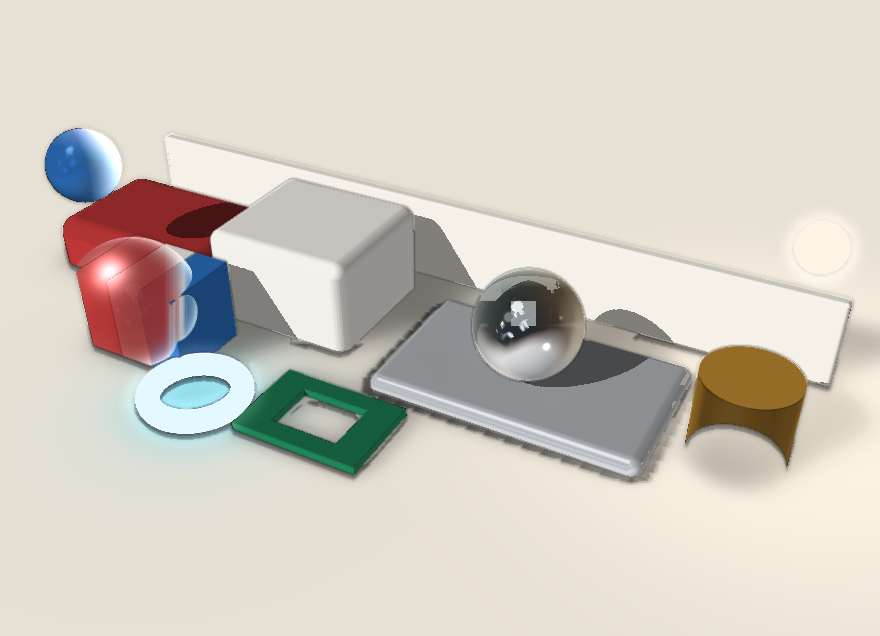
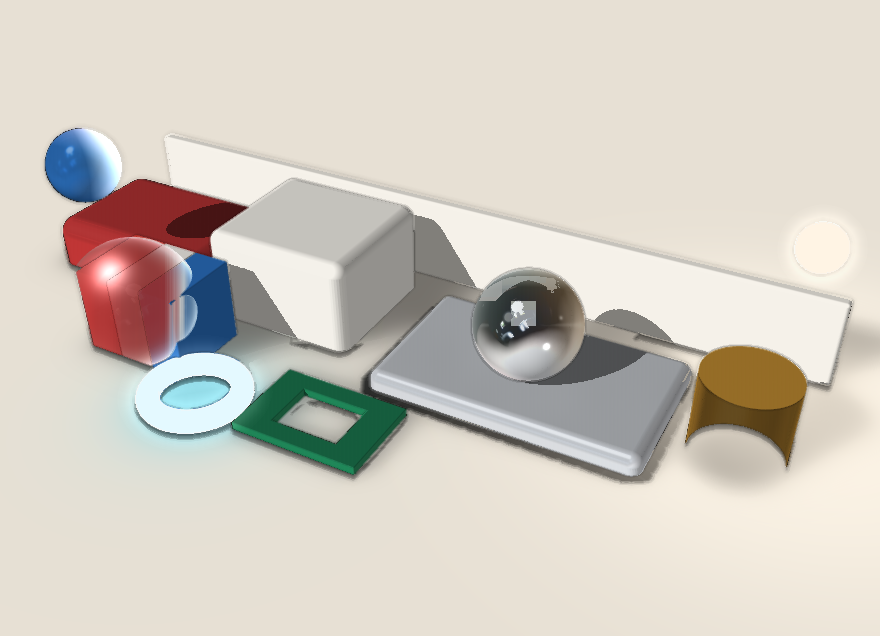
QUALITY-6 §9.2: still-only metal-plate lift z=5; macbook 0.92.
Shared bench keeps matte r0.58 for manga hatchFlip. Still softens contact
further; macbook shell metalness 0.12. Gallery rebake; gates green.

diff --git a/scripts/gallery-3d.ts b/scripts/gallery-3d.ts
@@ -314,7 +314,16 @@ function buildPlates(): { sheet: string; title: string; cols: number; cells: Pla
       width: BENCH_W,
       height: BENCH_H + 96,
       caption: '贴地接触 · 悬空软影 · 缝里的遮挡 · 铬球 · 玻璃和色条 · 洞 · 霓虹 · 灯',
-      body: place(bench(), 0, 52),
+      // Still-only lift + softer plate — shared bench keeps manga hatchFlip
+      // and quality gold facetStripe (QUALITY-6 §9.2).
+      body: place(
+        bench().replace(
+          '<rect id="metal-plate" x="470" y="64" width="250" height="150" depth="26" rx="10" fill="#cfd3d8" material="finish metal, color #cfd3d8, roughness 0.58, metalness 0.42, clearcoat 0" />',
+          '<rect id="metal-plate" x="470" y="64" width="250" height="150" depth="26" rx="10" z="5" fill="#d5d9de" material="finish metal, color #d5d9de, roughness 0.78, metalness 0.22, clearcoat 0" />',
+        ),
+        0,
+        52,
+      ),
     }),
   }
   const shading = (['studio', 'toon', 'technical', 'manga'] as const).map((name) => ({

diff --git a/examples/macbook-pro.tsx b/examples/macbook-pro.tsx
@@ -5,7 +5,7 @@
 // 机身 980 × 670 × 30，屏幕盖 980 × 666 × 10，按 2.755 px/mm 换算。
 const SILVER = '#e8ecf2'
 // Product aluminum; clearcoat off (wet chrome lip read).
-const SHELL = 'finish metal, color #b8bcc2, roughness 0.86, metalness 0.18, clearcoat 0'
+const SHELL = 'finish metal, color #b8bcc2, roughness 0.92, metalness 0.12, clearcoat 0'
 const KEY = '#2e3138'
 const WELL = '#1a1c20'
 
